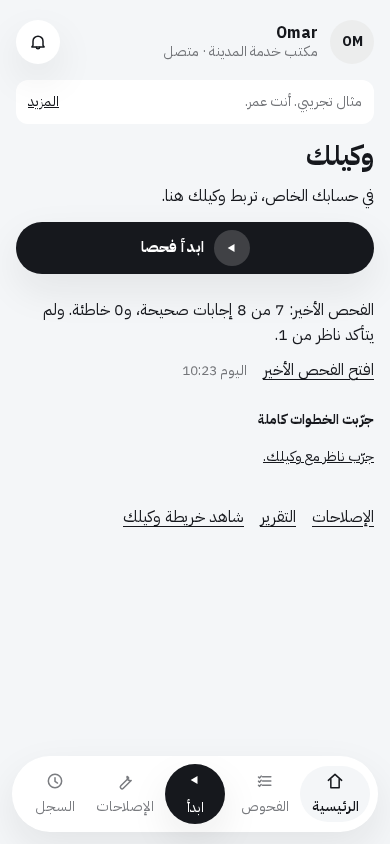
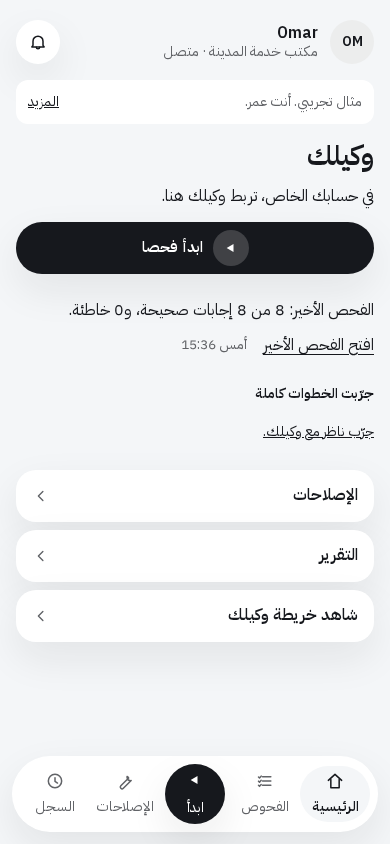
WIP final presentation: chrome alignment, Safety timestamps, hero captures (ungated, from Codex)

diff --git a/src/components/shell/safety.tsx b/src/components/shell/safety.tsx
@@ -5,7 +5,7 @@ import { Heading } from '@/components/heading';
 import { fill, messagesFor, type Lang } from '@/components/ocean/copy';
 import type { SafetyDetail, SafetyList, SafetySummary, Weakness } from '@/server/safety/read';
 import { mappingMeaning } from '@/server/safety/attacks';
-import { dayLabel } from './checks-model';
+import { dateTimeLabel } from './checks-model';
 import { ShellIcon } from './icons';
 import { PillButton } from './pill-button';
 import { PhaseCard, StateCard } from './state-card';
@@ -135,6 +135,10 @@ export function SafetyBody({ lang, now, safety, canStart, reportHref, settingsHr
   const limited = Boolean(list.nextAt && new Date(list.nextAt).getTime() > now.getTime());
   const sdkUrl = new URL(settingsHref, 'https://nazir.invalid'); sdkUrl.searchParams.delete('screen'); sdkUrl.searchParams.set('connect', 'full'); sdkUrl.searchParams.set('lang', lang);
   const startLabel = busy === 'starting' ? text.starting : needConfirm ? text.confirmStart : text.testSafety;
+  const times = new Map(list.runs.map((run) => [run.id, dateTimeLabel(new Date(run.at), lang)]));
+  const frequencies = new Map<string, number>();
+  for (const label of times.values()) frequencies.set(label, (frequencies.get(label) ?? 0) + 1);
+  const when = (run: SafetySummary) => dateTimeLabel(new Date(run.at), lang, (frequencies.get(times.get(run.id)!) ?? 0) > 1);
   return (
     <div className="nz-checks-body">
       <div className="nz-checks-list">
@@ -158,10 +162,10 @@ export function SafetyBody({ lang, now, safety, canStart, reportHref, settingsHr
         ) : null}
         {list.agent && list.runs.length === 0 && !needConfirm ? <StateCard kind="empty" title={text.empty} action={canStart && !limited ? { label: startLabel, onClick: busy === 'starting' ? undefined : () => void safety.start(false) } : null} /> : null}
         {list.runs.map((run) => (
-          <button key={run.id} type="button" className="nz-check-card nz-safety-card" data-verdict={run.verdict ?? run.status} aria-pressed={safety.openId === run.id} onClick={() => open_(run.id)}>
+          <button key={run.id} type="button" className="nz-check-card nz-safety-card" data-safety-id={run.id} data-verdict={run.verdict ?? run.status} aria-pressed={safety.openId === run.id} onClick={() => open_(run.id)}>
             <span className={run.verdict === 'ready_safe' || run.verdict === 'replies_clean' ? 'nz-check-mark nz-check-mark-right' : 'nz-check-mark nz-check-mark-wrong'}><ShellIcon name={run.verdict === 'ready_safe' || run.verdict === 'replies_clean' ? 'check' : 'dot'} /></span>
             <span className="nz-check-text">
-              <strong>{fill(text.rowTitle, { day: dayLabel(new Date(run.at), now, lang, copy) })}</strong>
+              <strong>{fill(text.rowTitle, { day: when(run) })}</strong>
               <small className={run.verdict === 'ready_safe' || run.verdict === 'replies_clean' ? 'nz-check-right' : 'nz-check-wrong'}>{rowLine(run, lang)}</small>
             </span>
             <span className="nz-check-go"><ShellIcon name="play" directional /></span>
@@ -169,19 +173,19 @@ export function SafetyBody({ lang, now, safety, canStart, reportHref, settingsHr
         ))}
         {list.agent && list.runs.length > 0 && !active && !needConfirm && canStart ? <PillButton className="nz-checks-start nz-safety-start" icon="play" directional label={startLabel} disabled={busy === 'starting' || limited} onClick={() => void safety.start(false)} /> : null}
       </div>
-      {safety.openId ? (open ? <SafetyDetailView lang={lang} now={now} run={open} demo={list.demo} busy={busy} canStart={canStart && !active && !limited && !needConfirm} onBack={() => open_(null)} onApprove={(f) => void safety.approve(f)} onAgain={() => void safety.start(false)} reportHref={reportHref(open.id)} settingsHref={settingsHref} />
-        : <SafetyDetailPending lang={lang} now={now} summary={list.runs.find((r) => r.id === safety.openId)} error={safety.detailError} onBack={() => open_(null)} onRetry={safety.retryDetail} />) : null}
+      {safety.openId ? (open ? <SafetyDetailView lang={lang} run={open} demo={list.demo} busy={busy} canStart={canStart && !active && !limited && !needConfirm} onBack={() => open_(null)} onApprove={(f) => void safety.approve(f)} onAgain={() => void safety.start(false)} reportHref={reportHref(open.id)} settingsHref={settingsHref} />
+        : <SafetyDetailPending lang={lang} summary={list.runs.find((r) => r.id === safety.openId)} error={safety.detailError} onBack={() => open_(null)} onRetry={safety.retryDetail} />) : null}
     </div>
   );
 }
 
 /** Keep the known heading and first viewport in place while an exact result arrives. */
-function SafetyDetailPending({ lang, now, summary, error, onBack, onRetry }: { lang: Lang; now: Date; summary?: SafetySummary; error: boolean; onBack: () => void; onRetry: () => void }) {
+function SafetyDetailPending({ lang, summary, error, onBack, onRetry }: { lang: Lang; summary?: SafetySummary; error: boolean; onBack: () => void; onRetry: () => void }) {
   const copy = messagesFor(lang); const text = copy.safetyScreen;
   return <section className="nz-check-page nz-safety-pending" data-state={error ? 'error' : 'loading'} aria-busy={!error || undefined}>
     <button type="button" className="nz-back" onClick={onBack}><ShellIcon name="play" directional /><span>{text.back}</span></button>
     {error ? <PhaseCard phase="error" copy={copy} onRetry={onRetry} /> : <>
-      {summary ? <Heading as="h2" light={fill(text.rowTitle, { day: dayLabel(new Date(summary.at), now, lang, copy) })} bold={rowLine(summary, lang)} lang={lang} /> : <i className="nz-placeholder nz-placeholder-title" aria-hidden="true" />}
+      {summary ? <Heading as="h2" light={fill(text.rowTitle, { day: dateTimeLabel(new Date(summary.at), lang, true) })} bold={rowLine(summary, lang)} lang={lang} /> : <i className="nz-placeholder nz-placeholder-title" aria-hidden="true" />}
       <span className="nz-visually-hidden" role="status">{copy.shell.loadingTitle}</span>
       <div className="nz-safety-detail-loading" aria-hidden="true">{[0, 1, 2].map((i) => <section className="nz-placeholder-card" key={i}><i className="nz-placeholder nz-placeholder-title" /><i className="nz-placeholder" /><i className="nz-placeholder" /></section>)}</div>
     </>}
@@ -211,8 +215,8 @@ function SafetyRunning({ lang, run, stopping, onStop }: { lang: Lang; run: Safet
   );
 }
 
-function SafetyDetailView({ lang, now, run, demo, busy, canStart, onBack, onApprove, onAgain, reportHref, settingsHref }: {
-  lang: Lang; now: Date; run: SafetyDetail; demo: boolean; busy: string | null; canStart: boolean;
+function SafetyDetailView({ lang, run, demo, busy, canStart, onBack, onApprove, onAgain, reportHref, settingsHref }: {
+  lang: Lang; run: SafetyDetail; demo: boolean; busy: string | null; canStart: boolean;
   onBack: () => void; onApprove: (family: string) => void; onAgain: () => void; reportHref: string; settingsHref: string;
 }) {
   const copy = messagesFor(lang);
@@ -223,9 +227,9 @@ function SafetyDetailView({ lang, now, run, demo, busy, canStart, onBack, onAppr
   const firstOpen = openFamily ?? found[0]?.family ?? null;
   const finished = run.status === 'done';
   return (
-    <section className="nz-check-page nz-safety-page" aria-label={fill(text.rowTitle, { day: dayLabel(new Date(run.at), now, lang, copy) })}>
+    <section className="nz-check-page nz-safety-page" aria-label={fill(text.rowTitle, { day: dateTimeLabel(new Date(run.at), lang, true) })}>
       <button type="button" className="nz-back" onClick={onBack}><ShellIcon name="play" directional /><span>{text.back}</span></button>
-      <Heading as="h2" light={fill(text.rowTitle, { day: dayLabel(new Date(run.at), now, lang, copy) })} bold={finished && run.verdict ? text.verdict[run.verdict] : rowLine(run, lang)} lang={lang} flow="stack" />
+      <Heading as="h2" light={fill(text.rowTitle, { day: dateTimeLabel(new Date(run.at), lang, true) })} bold={finished && run.verdict ? text.verdict[run.verdict] : rowLine(run, lang)} lang={lang} flow="stack" />
       {run.scope === 'replies_only' ? <p className="nz-check-sub" data-scope="replies_only">{text.repliesOnly}</p> : null}
       {run.scope === 'sample' ? <p className="nz-check-sub">{text.sampleLine}</p> : null}
       {finished ? <>

diff --git a/tests/ui/member-data.test.tsx b/tests/ui/member-data.test.tsx
@@ -134,3 +134,19 @@ it('keeps the saved safety heading with shaped placeholders while only its detai
   expect(html).toContain('nz-safety-detail-loading');
   expect(html).not.toContain('nz-state-loading');
 });
+
+
+it.each(['en', 'ar'] as const)('distinguishes same-minute saved Safety tests and exposes the exact saved report time in %s', (lang) => {
+  const first = { ...savedSafety, at: '2026-11-24T08:00:01Z' };
+  const second = { ...savedSafety, id: '22222222-2222-4222-8222-222222222222', at: '2026-11-24T08:00:42Z' };
+  const value: MemberSnapshot = { ...snapshot, lang, activeRuns: [], safetyList: { runs: [first, second], confirmed: true, demo: true, agent: true, proof: null, nextAt: null }, safetyDetail: second };
+  const list = renderToStaticMarkup(<MemberSnapshotProvider value={value}><ChecksScreen workspaceId="workspace" initialLang={lang} initialTab="safety" /></MemberSnapshotProvider>);
+  expect(list).toContain('12:00:01');
+  expect(list).toContain('12:00:42');
+  expect(list).toContain(`data-safety-id="${second.id}"`);
+  const detail = renderToStaticMarkup(<MemberSnapshotProvider value={value}><ChecksScreen workspaceId="workspace" initialLang={lang} initialTab="safety" initialSafety={second.id} /></MemberSnapshotProvider>);
+  expect(detail).toContain('12:00:42');
+  const report = renderToStaticMarkup(<MemberSnapshotProvider value={value}><SafetyReportScreen workspaceId="workspace" runId={second.id} initialLang={lang} /></MemberSnapshotProvider>);
+  expect(report).toContain(`dateTime="${new Date(second.at).toISOString()}"`);
+  expect(report).toContain('12:00:42');
+});

diff --git a/src/components/shell/safety-report.tsx b/src/components/shell/safety-report.tsx
@@ -14,6 +14,7 @@ import { useMemberData } from './member-data';
 import { PillButton } from './pill-button';
 import { StateCard } from './state-card';
 import { rowLine } from './safety';
+import { dateTimeLabel } from './checks-model';
 import { useMemberSnapshot } from './member-snapshot';
 
 type Note = 'downloading' | 'copied' | 'shareFailed' | 'sharing' | null;
@@ -71,6 +72,7 @@ export function SafetyReportScreen({ workspaceId, runId, initialLang }: { worksp
           {run.scope === 'sample' ? <p className="nz-rep-caption">{text.sampleLine}</p> : null}
           <p className="nz-rep-headline" data-verdict={run.verdict ?? ''}>{rowLine(run, lang)}</p>
           <p className="nz-rep-caption" dir="auto">{run.agent ?? ''}</p>
+          <p className="nz-check-sub nz-safety-date"><time dateTime={new Date(run.at).toISOString()}>{dateTimeLabel(new Date(run.at), lang, true)}</time></p>
         </section>
         {found.length === 0 ? <StateCard kind="empty" title={text.noWeakness} /> : null}
         <ul className="nz-safety-other nz-safety-report-list">

diff --git a/src/app/privacy/page.tsx b/src/app/privacy/page.tsx
@@ -6,7 +6,7 @@ export default function Page() {
   return <main className="nz-legal" lang="en" dir="ltr">
     <nav aria-label="Nazir"><Link href="/?lang=en" lang="en">Home</Link><Link href="/?lang=ar" lang="ar" dir="rtl">الرئيسية</Link></nav>
     <h1>Privacy</h1>
-    <section lang="en"><h2>Privacy</h2>
+    <section lang="en">
       <p>The Nazir demo uses a fictional service and made up records. In your own account, you can connect an agent you control or have permission to test. Use a test environment and do not enter real personal data.</p>
       <p>From Google we store your name, email, picture and Google account id. We store sign in session records that expire after 30 days.</p>
       <p>We store your workspace, agent connection details, test runs, questions, replies, findings, fixes and activity. With the SDK, we also store reported tools, agent inventory and test evidence. Test people settings store the staging login details you provide. Connection secrets and test login values are stored encrypted.</p>

diff --git a/src/app/globals.css b/src/app/globals.css
@@ -20,7 +20,7 @@
   --shadow: 0 16px 40px rgba(22, 24, 29, .08);
 }
 
-html { color: var(--ink); background: var(--page); }
+html { color: var(--ink); background: var(--page); scrollbar-gutter: stable; }
 
 body {
   margin: 0;
@@ -1264,8 +1264,9 @@ a.nz-set-link:focus-visible, .nz-set-head:focus-visible { outline: 2px solid var
 .nz-rep-btn { justify-content: center; min-block-size: 56px; }
 a.nz-rep-btn { text-decoration: none; }
 
-@media (min-width: 900px) {
-  .nz-shell[data-screen] .nz-shell-desk { inline-size: min(100%, 640px); }
+.nz-shell.nz-report { max-inline-size: none; transition: none; }
+@media (min-width: 1024px) {
+  .nz-shell[data-screen] .nz-shell-stack { inline-size: min(100%, 640px); margin-inline: auto; }
 }
 .nz-shell-desk .nz-rep-btn, .nz-shell-desk .nz-hist-more, .nz-shell-desk .nz-set-actions .nz-pill-btn { min-block-size: 56px; border-radius: var(--radius-pill); }
 .nz-set-flat { display: flex; align-items: center; gap: 14px; }

diff --git a/src/app/terms/page.tsx b/src/app/terms/page.tsx
@@ -6,7 +6,7 @@ export default function Page() {
   return <main className="nz-legal" lang="en" dir="ltr">
     <nav aria-label="Nazir"><Link href="/?lang=en" lang="en">Home</Link><Link href="/?lang=ar" lang="ar" dir="rtl">الرئيسية</Link></nav>
     <h1>Terms</h1>
-    <section lang="en"><h2>Terms</h2>
+    <section lang="en">
       <p>Nazir is a prototype for testing AI agents. The demo uses a fictional service and made up data. Your own account can connect an agent you control or have written permission to test.</p>
       <p>Results apply only within the tested scope and are not a certificate. Review the evidence before using a result.</p>
       <p>Use a separate test environment with made up people and records. Safety checks may ask the agent to read or change records. Configure SDK dry runs for tools that change data. Do not connect real customer records or assume that every action will be blocked.</p>

diff --git a/src/server/auth/demo.ts b/src/server/auth/demo.ts
@@ -3,7 +3,6 @@ import { createHmac, randomBytes } from 'node:crypto';
 import type { TransactionDriver } from '../db/driver';
 import { authCall, sessionHash } from './adapter';
 
-import { demoWorkspaceId } from '../../shared/demo';
 export { demoWorkspaceId } from '../../shared/demo';
 export const demoEmailSuffix = '@demo.nazir.test';
 export const demoRoles = ['owner', 'editor', 'viewer', 'supplier'] as const;

diff --git a/docs/chunk1a-review.md b/docs/chunk1a-review.md
@@ -1,0 +1,57 @@
+# Chunk 1A review
+
+Working tree based on `nazir/1a-connect-home`, `47a1dfd`. No commit, push, merge, migration apply or deployment was performed.
+
+## Product and implementation
+
+- Real Home shows exactly two connection choices before a successful test. Both use the same panel and save an API connection. The full choice explains that the SDK can be added later. It exposes no SDK files, keys, snippets, signing, tool success or readiness claims.
+- Save uses PUT, then POST tests the saved revision. Only a successful test enables Start. A revision change between requests is refused before sending. Existing credentials are reused only for the same address, header and revision. A changed address cannot receive an old credential.
+- Connected Home shows the first check action or latest completed score, the agent status and the next actions. Stat cards link to that completed check. Shared queued and running checks appear first and withhold another Start. Failed progress reads retain the last card and do not establish emptiness.
+- Header status comes from trusted account kind and the safe connection projection. Workspace and settings names are not used as connection evidence. Settings links back to the same Home panel. The new panel links and Back preserve Arabic when the language is pinned in the URL. People contains one person without role metadata or chips.
+- Home has no Settings tile. Settings remains in the avatar and desktop nav. Floating labels are visible, one line, with a filled current pill. The nav height is 76 px plus its bottom offset and safe area. Fixes reserves 112 px plus the safe area for the enlarged bar.
+- A2A normalizes 1.0 and 0.3 cards and supports JSONRPC and HTTP+JSON, header API keys, bearer, immediate messages, bounded Task polling and cancellation. It omits a context on the first turn and reuses the agent's returned context. OAuth and required unsupported extensions are refused.
+- Card fetches, selected interfaces, messages, polling and cancellation use public HTTPS checks, pinned socket lookups, TLS verification and no redirects. Authenticated interfaces on another origin are refused. Card and reply reads are capped at 64 KiB. Only normalized card name, skills and interface metadata are stored. Advertised URLs containing credentials, query strings or fragments are refused. Keys and raw transport errors are not returned.
+- Real direct Start refuses missing and untested connections. Demo Start uses the built in sample even if a legacy external connection row exists. PR 92 scheduling, shared Stop, attempt limits and check dates remain in place.
+- Saved reports, projected reads and PDFs carry the tested agent name and reply scope from the frozen check, independent of later connection changes. Missing inside evidence remains inconclusive. The database's existing fixed scope statement is preserved.
+- Public Simple message and reply and A2A sample wrappers share the sample service policy. They are intentionally stateless and explain that they do not save requests. They accept no tenants, requester identities, versions or model settings and call no database or paid model. A bounded process limiter allows 60 calls per caller and 600 overall per minute. These limits are per process, not a distributed quota. The original protected sample route retains authentication.
+- New copy is paired in English and Arabic, including the exact approved `connect.simple` wording. Arabic still needs native review.
+
+## Migration
+
+`db/migrations/0038_connections.sql` is written and tested only on isolated PGlite databases. It adds only the approved connection metadata columns to `nazir.external_agents`, widens the format constraint, and replaces the necessary read/save/remove/test function bodies. It preserves existing API connections, tested timestamps on upgrade, function signatures, grants, FORCE RLS and the database roles. Changes reset readiness; stale test revisions cannot restore it. Demo writes are refused in the service and SQL functions.
+
+Bilal applies 0038 later using the already taken backup and the normal migration process after the gate is green. Nothing in this work invokes the production migration runner.
+
+## Knowledge and QA accounting
+
+Reviewed the context's Nov 12 08:20 Dubai override, approved 1A plan, relevant A2A design and build brief, and relevant entries across `build-knowledge/known-issues.md`, `lessons.md`, `universal/`, `design/`, `product-logic/` and `qa-findings/`. Relevant checks cover server first paint, safe secrets, solo Start, real links, attached controls, translated copy, visible nav labels, safe area clearance, immediate feedback, 140 ms color/transform transitions, keyboard focus and reduced motion. Unrelated project rules and later Nazir chunks are outside this change.
+
+The 12 Home stat card NOT-CLICKABLE rows and the named header, People, nav, Settings tile and missing connect issues have implementation and unit coverage. They are not claimed as live verified. No browser automation or deployment was run.
+
+Explicitly still open, as required by plan item 39: the lost-after-chain watchdog gap, eight suspected DEAD-CONTROL rows, one SAME-AS-OTHER row, five earlier Arabic keys awaiting native review and snapshot heading joins. Existing Topic/Language settings behavior belongs to the later Settings chunk. No SDK runtime, signing infrastructure, ingest, sessions, safety tables or cron was added.
+
+## Bilal's live verification
+
+1. After the external gate and later migration/deployment, connect a fresh real account to the public Simple message and reply sample, then its A2A card. OpenAI chat is covered by fake-server tests.
+2. Verify save/test status immediately, after reload and in a second browser. Failed tests must leave Start unavailable. Check both connection choices and Change/Add the SDK Back and reload behavior.
+3. Start an answers check, close every tab and confirm server completion. Verify the same completed check's Replies only scope in its report and PDF after changing the connection.
+4. Run the focused crawl and persistence checks in English and Arabic at 390 by 844 and 1440 by 900. Check the labelled nav at 360 and measure Before and after above it at 390 with a safe area.
+5. Confirm the preserved demo checks and existing walkthrough behavior. The 2 minute 8 second PR 92 close-the-phone result has not been remeasured by this change.
+
+## Verification log
+
+Focused Node 22 runs cover adapters, connection routes, SSRF/pinning, migration upgrade, demo mutation refusals, revision races, direct Start, all Home states, member first paint/refresh, nav, People, reports, PDF labels, English/Arabic parity, no dashes and no jargon. Final gate results are recorded in the implementation handoff.
+
+Two existing runner-loader tests conditionally skip in this sandbox when their child-process feature probe cannot observe `registerHooks`. Their actual loader commands were also run directly on Node 22: pack runtimes returned `real_estate,ecommerce,clinics,schools`; all five Quick selections returned `8`. No test was deleted or newly skipped.
+
+### Final handoff gate
+
+Run with `/home/box/.local/node22/bin` in PATH, Node v22.23.3:
+
+- `pnpm gate`: lint passed, typecheck passed, all 159 test files passed, 2,570 tests passed and the two existing conditional loader tests skipped. Their two actual loader commands passed directly, as described above.
+- `next build` compiled successfully in 23.5 seconds, then exited with `Could not parse output from TypeScript's --showConfig.` The direct `pnpm exec tsc --showConfig` output parses as valid JSON. No sandbox workaround or Next configuration change was added. The complete gate must be rerun outside this sandbox before applying 0038.
+- Six existing Turbopack warnings concern dynamic filesystem tracing in the library/pack loaders. These files were not changed by 1A.
+- The Next route manifest contains the protected agent route and all three new public sample/card routes.
+- `git diff --check` passed. Branch and HEAD remain `nazir/1a-connect-home` at `47a1dfd`.
+
+Focused runs included all named files in plan items 33 through 36: settings external agent/routes/net guard/outbound pinning, runner external agent and queue, demo Start, auth shell data, Home/completion/shell/header/People/Checks/member data, report/PDF tests, no dashes and no jargon. Added suites cover A2A, migration upgrade, public sample isolation/authentication/limits and the connect card. Additional regression assertions cover stale save/test revisions, saved-key races, returned A2A contexts, cancelled tasks, frozen agent names and report scope after removing a connection. The last focused run passed 74 tests across 11 files. No live success is asserted by these unit and PGlite checks.
